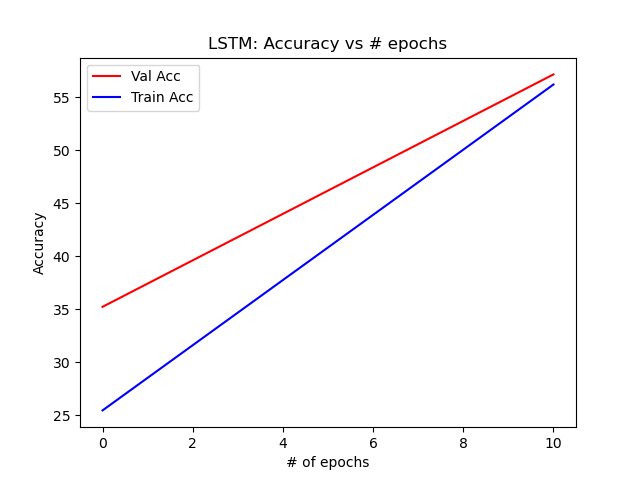
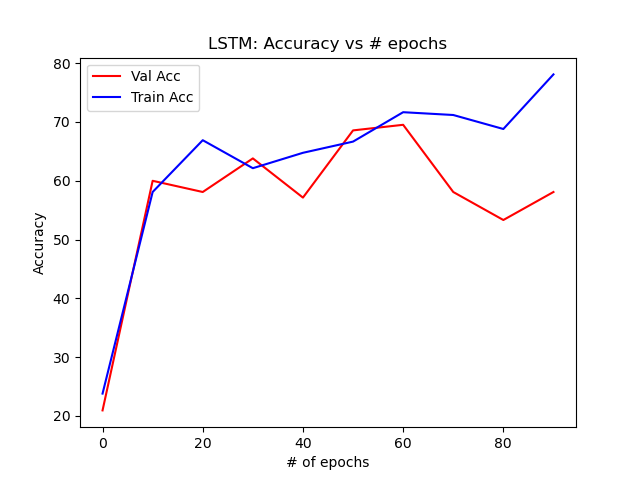
millores model

diff --git a/LSTM-Music-Genre-Classification-master/LSTM-Music-Genre-Classification-master/lstm_genre_classifier_pytorch.py b/LSTM-Music-Genre-Classification-master/LSTM-Music-Genre-Classification-master/lstm_genre_classifier_pytorch.py
@@ -19,11 +19,28 @@ import torch
 import torch.nn as nn
 import torch.nn.functional as F
 import torch.optim as optim
+import numpy as np
 
 from GenreFeatureData import (
     GenreFeatureData,
 )  # local python class with Audio feature extraction (librosa)
 
+class EarlyStopper:
+    def __init__(self, patience=1, min_delta=0):
+        self.patience = patience
+        self.min_delta = min_delta
+        self.counter = 0
+        self.min_validation_loss = np.inf
+
+    def early_stop(self, validation_loss):
+        if validation_loss < self.min_validation_loss:
+            self.min_validation_loss = validation_loss
+            self.counter = 0
+        elif validation_loss > (self.min_validation_loss + self.min_delta):
+            self.counter += 1
+            if self.counter >= self.patience:
+                return True
+        return False
 
 # class definition
 class LSTM(nn.Module):
@@ -35,7 +52,10 @@ class LSTM(nn.Module):
         self.num_layers = num_layers
 
         # setup LSTM layer
-        self.lstm = nn.LSTM(self.input_dim, self.hidden_dim, self.num_layers)
+        self.lstm = nn.LSTM(self.input_dim, self.hidden_dim, self.num_layers, bias = False, dropout = 0.5)
+
+        # batchnormalisation
+        self.batch = nn.BatchNorm1d(num_features = self.hidden_dim)
 
         # setup output layer
         self.linear = nn.Linear(self.hidden_dim, output_dim)
@@ -45,7 +65,8 @@ class LSTM(nn.Module):
         # Note: lstm_out contains outputs for every step of the sequence we are looping over (for BPTT)
         # but we just need the output of the last step of the sequence, aka lstm_out[-1]
         lstm_out, hidden = self.lstm(input, hidden)
-        logits = self.linear(lstm_out[-1])              # equivalent to return_sequences=False from Keras
+        logits = self.batch(lstm_out[-1])
+        logits = self.linear(logits)              # equivalent to return_sequences=False from Keras
         genre_scores = F.log_softmax(logits, dim=1)
         return genre_scores, hidden
 
@@ -94,16 +115,17 @@ def main():
     print("Test Y shape: " + str(genre_features.test_Y.shape))
 
     batch_size = 35  # num of training examples per minibatch
-    num_epochs = 20 #400
+    num_epochs = 100 #400
 
     # Define model
     print("Build LSTM RNN model ...")
     model = LSTM(
         input_dim=33, hidden_dim=128, batch_size=batch_size, output_dim=8, num_layers=2
     )
+
     loss_function = nn.NLLLoss()  # expects ouputs from LogSoftmax
 
-    optimizer = optim.Adam(model.parameters(), lr=0.001)
+    optimizer = optim.Adam(model.parameters(), lr=0.001, weight_decay = 0.1)
 
     # To keep LSTM stateful between batches, you can set stateful = True, which is not suggested for training
     stateful = False
@@ -114,6 +136,9 @@ def main():
     else:
         print("\nNo GPU, training on CPU")
 
+    # device = torch.device("cuda:0" if torch.cuda.is_available() else "cpu")
+    # model.to(device)
+
     # all training data (epoch) / batch_size == num_batches (12)
     num_batches = int(train_X.shape[0] / batch_size)
     num_dev_batches = int(dev_X.shape[0] / batch_size)
@@ -122,6 +147,15 @@ def main():
     train_loss_list, train_accuracy_list = [], []
 
     print("Training ...")
+
+    #Inicialització random i normalitzada
+    for name, w in model.named_parameters():
+        if "weight" in name:
+            nn.init.xavier_uniform_(w)
+        
+        if "bias" in name:
+            nn.init.zeros_(w) 
+
     for epoch in range(num_epochs):
 
         train_running_loss, train_acc = 0.0, 0.0
@@ -216,6 +250,7 @@ def main():
             val_loss_list.append(val_running_loss / num_dev_batches)
             train_accuracy_list.append(train_acc / num_batches)
             train_loss_list.append(train_running_loss / num_dev_batches)
+        
 
     # visualization loss
     plt.plot(epoch_list, val_loss_list, color = "red", label = "Val loss")
